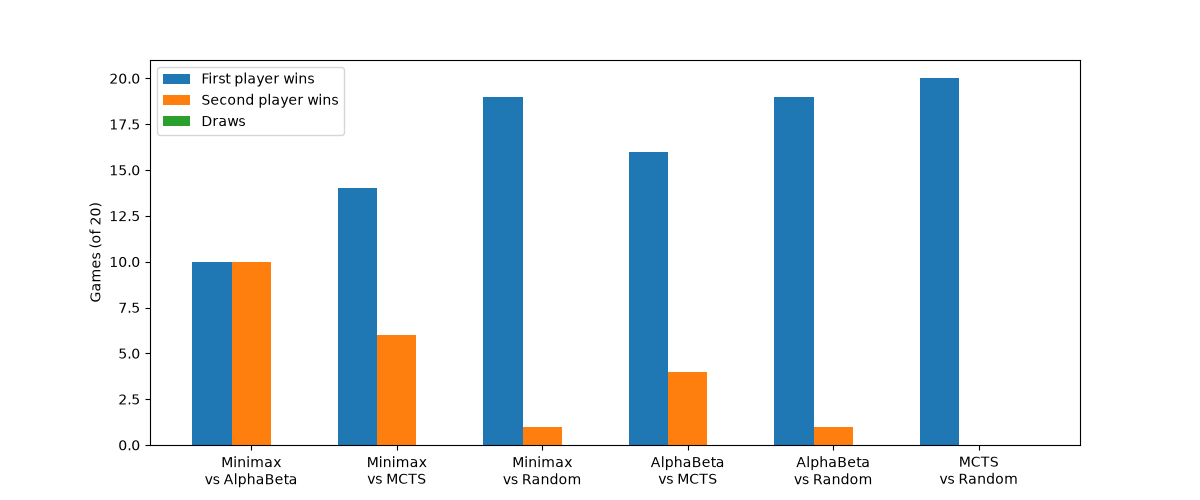
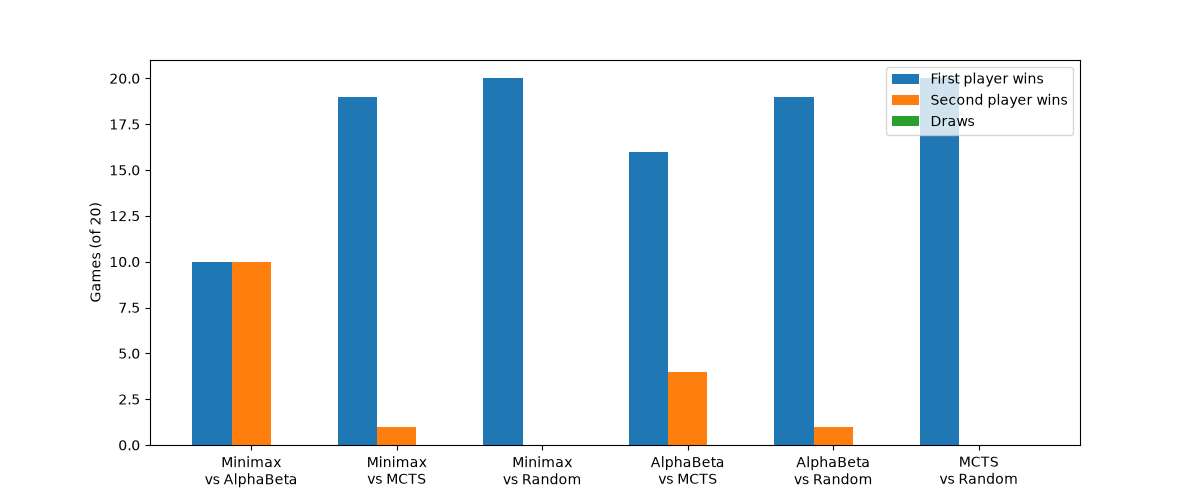
Fixed Battle UI

diff --git a/battle_ui.py b/battle_ui.py
@@ -1,48 +1,145 @@
-import pygame, sys
-from battle import apply, winner, best
+import pygame, sys, math, random
+from battle import apply, winner, best, mult
 from mcts import mcts
 from tournament import START
 
 COL = {"Fire": (230, 80, 40), "Water": (60, 140, 255), "Earth": (140, 100, 50), "Lightning": (240, 210, 50)}
+NAME = {"Fire": "Fire Knight", "Water": "Water Mage", "Earth": "Earth Golem", "Lightning": "Storm Rogue"}
 AI = {"AlphaBeta": lambda s: best(s, 6, True), "MCTS": lambda s: mcts(s, 200)}
+SKIN, DARK, STEEL = (242, 201, 160), (58, 53, 80), (217, 221, 232)
 
-def draw(screen, font, s, log):
-    screen.fill((25, 25, 35))
-    teams, act, t = s
-    for side in (0, 1):
-        x = 40 + side * 400
-        screen.blit(font.render(f"Team {side + 1}" + ("  <" if t == side else ""), True, (255, 255, 255)), (x, 20))
-        for i, (hp, atk, df, el) in enumerate(teams[side]):
-            y = 70 + i * 110
-            pygame.draw.rect(screen, COL[el], (x, y, 280, 90), 0 if act[side] == i else 3)
-            screen.blit(font.render(el, True, (255, 255, 255)), (x + 10, y + 12))
-            screen.blit(font.render(f"HP {hp}  ATK {atk}  DEF {df}", True, (255, 255, 255)), (x + 10, y + 50))
-    for i, line in enumerate(log[-4:]):
-        screen.blit(font.render(line, True, (200, 200, 200)), (40, 320 + i * 28))
+def sprite(scr, el, cx, by, s, flip):
+    c = COL[el]; d = tuple(int(v * 0.6) for v in c)
+    def r(x, y, w, h, col):
+        px = cx + ((-x - w) if flip else x) * s
+        pygame.draw.rect(scr, col, (px, by + y * s, w * s, h * s))
+    pygame.draw.ellipse(scr, (30, 60, 30), (cx - 8 * s, by - 1.5 * s, 16 * s, 3 * s))
+    r(-5, -6, 4, 6, DARK); r(1, -6, 4, 6, DARK)
+    r(-7, -16, 14, 10, c); r(-7, -9, 14, 2, d); r(-10, -15, 3, 8, c); r(7, -15, 3, 8, c)
+    r(-5, -24, 10, 8, SKIN); r(-3, -21, 2, 2, (34, 34, 34)); r(1, -21, 2, 2, (34, 34, 34))
+    if el == "Fire": r(-5, -26, 10, 4, (190, 195, 210)); r(-1, -31, 2, 6, (242, 184, 75)); r(10, -24, 2, 16, STEEL)
+    elif el == "Water": r(-6, -27, 12, 5, c); r(10, -26, 2, 24, (110, 80, 50)); r(9, -29, 4, 4, (142, 202, 230))
+    elif el == "Earth": r(-11, -17, 5, 5, d); r(6, -17, 5, 5, d); r(-3, -26, 6, 3, d)
+    else: r(-5, -28, 3, 4, COL[el]); r(-1, -30, 3, 6, COL[el]); r(3, -28, 3, 4, COL[el]); r(10, -14, 2, 8, STEEL)
+
+def draw_fighter(scr, el, cx, by, s, flip, alpha=255, dx=0, dy=0):
+    surf = pygame.Surface((260, 260), pygame.SRCALPHA)
+    sprite(surf, el, 130, 230, s, flip)
+    surf.set_alpha(max(0, min(255, int(alpha))))
+    scr.blit(surf, (cx - 130 + dx, by - 230 + dy))
+
+def bar_color(f): return (94, 194, 183) if f > .5 else (242, 184, 75) if f > .25 else (230, 59, 46)
+
+def panel(scr, fonts, s, disp, maxhp, side, label, x, y, i):
+    f1, f2 = fonts
+    teams, act, turn = s
+    hp, atk, df, el = teams[side][i]
+    pygame.draw.rect(scr, (20, 18, 31), (x, y, 310, 120), border_radius=14)
+    if turn == side: pygame.draw.rect(scr, (242, 184, 75), (x, y, 310, 120), 3, border_radius=14)
+    scr.blit(f2.render(f"Team {side + 1} · {label}", True, (169, 165, 184)), (x + 16, y + 10))
+    scr.blit(f1.render(NAME[el], True, (244, 239, 230)), (x + 16, y + 32))
+    pygame.draw.circle(scr, COL[el], (x + 280, y + 42), 12)
+    frac = max(0, disp[side][i] / maxhp[side][i])
+    pygame.draw.rect(scr, (58, 53, 80), (x + 16, y + 62, 278, 14), border_radius=7)
+    if frac > 0: pygame.draw.rect(scr, bar_color(frac), (x + 16, y + 62, 278 * frac, 14), border_radius=7)
+    scr.blit(f2.render(f"HP {max(0, round(disp[side][i]))}/{maxhp[side][i]}  ATK {atk}  DEF {df}", True, (244, 239, 230)), (x + 16, y + 82))
+    b = 1 - i; bh, _, _, bel = teams[side][b]
+    scr.blit(f2.render(f"Bench: {NAME[bel]} {bh}/{maxhp[side][b]}", True, (169, 165, 184)), (x + 16, y + 100))
 
 def run(n1="AlphaBeta", n2="MCTS"):
     pygame.init()
-    screen = pygame.display.set_mode((760, 460))
-    font = pygame.font.SysFont(None, 28)
+    scr = pygame.display.set_mode((960, 540))
+    f1, f2, f3, f4 = (pygame.font.SysFont(None, n) for n in (30, 22, 56, 40))
     clock = pygame.time.Clock()
-    s, log, last, turns = START, [], 0, 0
+    names = (n1, n2)
+    s = START
+    maxhp = [[f[0] for f in t] for t in START[0]]
+    disp = [[float(f[0]) for f in t] for t in START[0]]
+    vis = [{"idx": 0, "st": "idle", "t0": 0, "to": 0, "kind": ""} for _ in range(2)]
+    log, floats = ["Battle start!"], []
+    phase, pt, pending, applied, hit_t, hit_side, turns = "wait", 0, None, False, -9999, 0, 0
     while True:
         for e in pygame.event.get():
             if e.type == pygame.QUIT: pygame.quit(); sys.exit()
             if e.type == pygame.KEYDOWN and e.key == pygame.K_ESCAPE: return
         now = pygame.time.get_ticks()
         w = winner(s)
-        if w is None and turns < 60 and now - last > 700:
-            a = AI[(n1, n2)[s[2]]](s)
-            log.append(f"Team {s[2] + 1}: {'Attack' if a == 'A' else 'Switch'}")
-            s = apply(s, a)
-            turns += 1
-            last = now
-        draw(screen, font, s, log)
-        if w is not None:
-            screen.blit(font.render(f"Team {w + 1} wins!", True, (255, 255, 0)), (300, 420))
+        settled = all(v["st"] in ("idle", "gone") for v in vis)
+        if w is None and turns < 60:
+            if phase == "wait" and now - pt > 700:
+                a = AI[names[s[2]]](s)
+                pending, applied, phase, pt = (a, s, apply(s, a)), False, "anim", now
+            elif phase == "anim":
+                el = now - pt
+                if not applied and el > 250:
+                    a, old, new = pending; t, o = old[2], 1 - old[2]
+                    if a == "A":
+                        ai = old[1][o]; dmg = old[0][o][ai][0] - new[0][o][ai][0]
+                        m = mult(old[0][t][old[1][t]][3], old[0][o][ai][3])
+                        tag = " Super effective!" if m > 1 else " Not very effective." if m < 1 else ""
+                        log.append(f"Team {t + 1}'s {NAME[old[0][t][old[1][t]][3]]} attacks: -{dmg}.{tag}")
+                        if new[0][o][ai][0] == 0: log.append(f"{NAME[old[0][o][ai][3]]} fainted!")
+                        floats.append([250 if o == 0 else 700, 290 if o == 0 else 205, f"-{dmg}", (242, 184, 75) if m > 1 else (255, 255, 255), now])
+                        hit_t, hit_side = now, o
+                    else:
+                        log.append(f"Team {t + 1} switches to {NAME[new[0][t][new[1][t]][3]]}.")
+                    for side in (0, 1):
+                        oi, ni = old[1][side], new[1][side]
+                        fainted = new[0][side][oi][0] == 0 and old[0][side][oi][0] > 0
+                        if ni != oi:
+                            vis[side].update(st="out", kind="faint" if fainted else "switch", t0=now + 400 if fainted else now, to=ni)
+                        elif fainted:
+                            vis[side].update(st="out", kind="faint", t0=now + 400, to=None)
+                    s, applied = new, True
+                if el > 700 and applied and settled: phase, pt, turns = "wait", now, turns + 1
+        for v in vis:
+            if v["st"] == "out" and now - v["t0"] >= (600 if v["kind"] == "faint" else 350):
+                if v["to"] is None: v["st"] = "gone"
+                else: v.update(st="in", t0=now, idx=v["to"])
+            elif v["st"] == "in" and now - v["t0"] >= 450: v["st"] = "idle"
+        for side in (0, 1):
+            for i in (0, 1):
+                tgt = s[0][side][i][0]
+                disp[side][i] += (tgt - disp[side][i]) * 0.15
+                if abs(tgt - disp[side][i]) < .5: disp[side][i] = tgt
+        for k in range(12): pygame.draw.rect(scr, (140 + k * 7, 203 + k * 3, 238 - k * 2), (0, k * 21, 960, 22))
+        pygame.draw.polygon(scr, (127, 181, 154), [(0, 250), (180, 170), (360, 250)])
+        pygame.draw.polygon(scr, (106, 168, 138), [(280, 250), (520, 150), (760, 250)])
+        pygame.draw.rect(scr, (109, 187, 90), (0, 250, 960, 290))
+        pygame.draw.ellipse(scr, (76, 157, 74), (60, 385, 380, 50)); pygame.draw.ellipse(scr, (76, 157, 74), (580, 305, 240, 40))
+        for side, (bx, by, sc, flip) in enumerate(((250, 410, 5, False), (700, 330, 4.4, True))):
+            v = vis[side]
+            if v["st"] == "gone": continue
+            el = s[0][side][v["idx"]][3]
+            dx = dy = 0; alpha = 255
+            if v["st"] == "in":
+                p = min(1, (now - v["t0"]) / 450)
+                dx, alpha = (-1 if side == 0 else 1) * 160 * (1 - p), 255 * p
+            elif v["st"] == "out" and now >= v["t0"]:
+                p = min(1, (now - v["t0"]) / (600 if v["kind"] == "faint" else 350))
+                alpha = 255 * (1 - p)
+                if v["kind"] == "faint": dy = 45 * p
+                else: dx = (-1 if side == 0 else 1) * 140 * p
+            elif phase == "anim" and pending and pending[1][2] == side and pending[0] == "A":
+                dx = math.sin(math.pi * min(1, (now - pt) / 500)) * 70 * (1 if side == 0 else -1)
+            if now - hit_t < 250 and hit_side == side and v["st"] != "in": dx += random.randint(-5, 5)
+            draw_fighter(scr, el, bx, by, sc, flip, alpha, dx, dy)
+        if now - hit_t < 300:
+            pygame.draw.circle(scr, (255, 255, 255), (250 if hit_side == 0 else 700, 300 if hit_side == 0 else 220), int((now - hit_t) / 5), 4)
+        for f in floats[:]:
+            age = now - f[4]
+            if age > 900: floats.remove(f); continue
+            scr.blit(f4.render(f[2], True, f[3]), (f[0] - 30, f[1] - age / 10))
+        panel(scr, (f1, f2), s, disp, maxhp, 0, names[0], 24, 24, vis[0]["idx"])
+        panel(scr, (f1, f2), s, disp, maxhp, 1, names[1], 626, 24, vis[1]["idx"])
+        pygame.draw.rect(scr, (20, 18, 31), (24, 430, 912, 90), border_radius=14)
+        for i, line in enumerate(log[-3:]): scr.blit(f1.render(line, True, (244, 239, 230) if i == len(log[-3:]) - 1 else (169, 165, 184)), (44, 444 + i * 26))
+        if w is not None and settled:
+            pygame.draw.rect(scr, (20, 18, 31), (0, 190, 960, 100))
+            scr.blit(f3.render(f"Team {w + 1} wins!", True, (242, 184, 75)), (480 - 130, 205))
+            scr.blit(f2.render("Press ESC to return", True, (169, 165, 184)), (480 - 80, 262))
         pygame.display.flip()
-        clock.tick(30)
+        clock.tick(60)
 
 if __name__ == "__main__":
     run()
